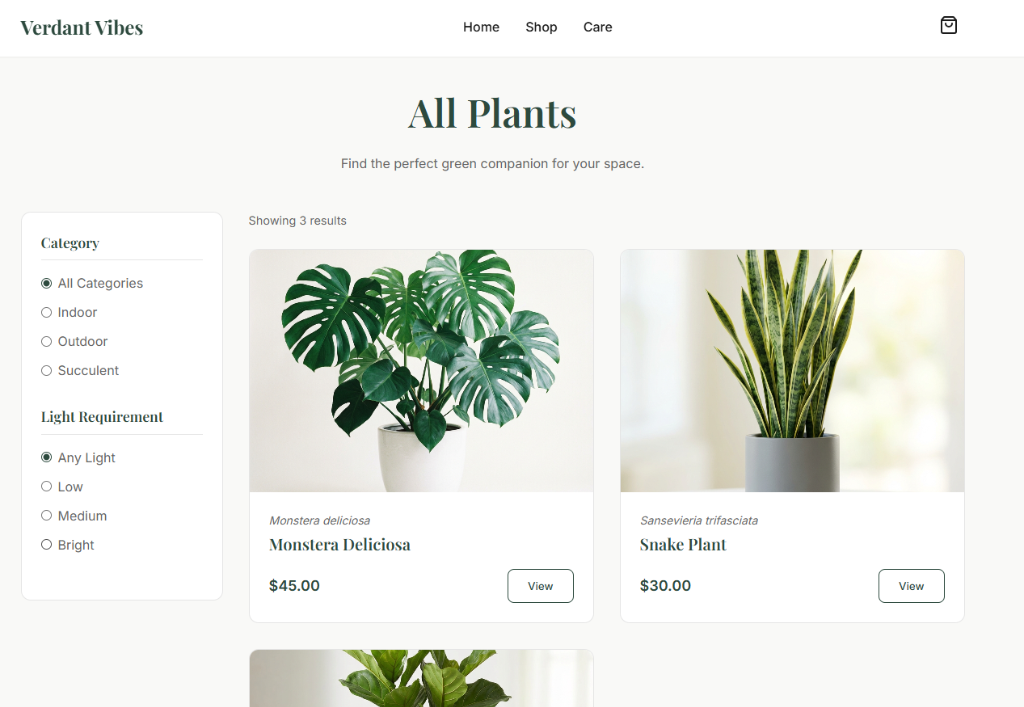
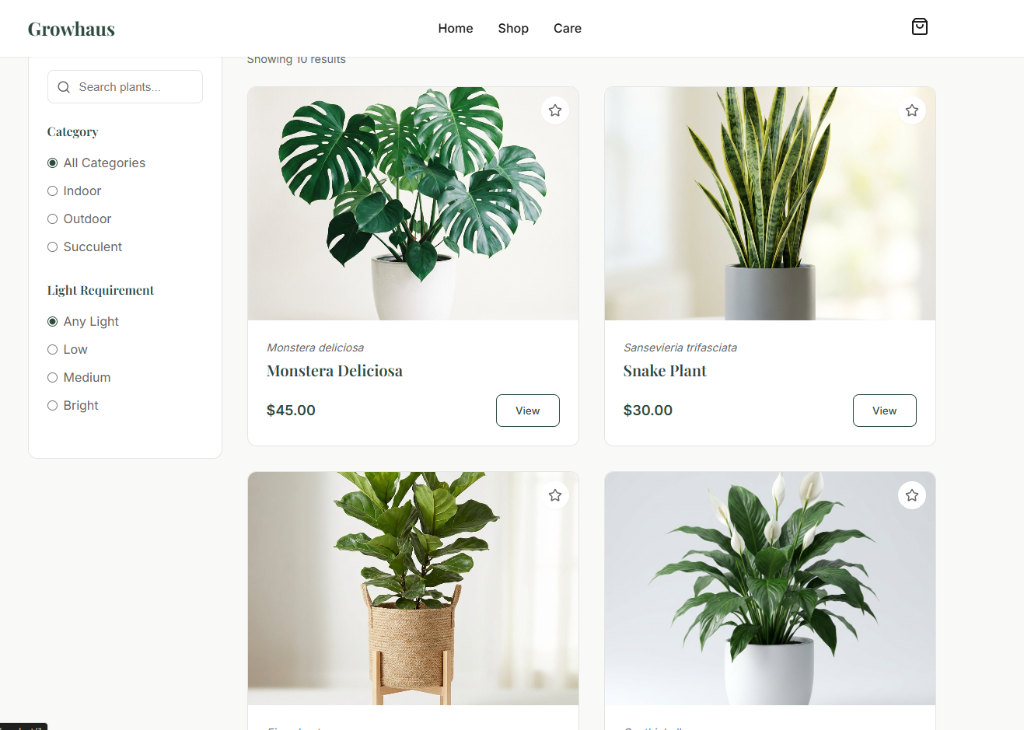
docs: Update README with new brand name and images

diff --git a/README.md b/README.md
@@ -1,12 +1,14 @@
-# 🌿 Verdant Vibes - Premium Plant Shop
+# 🌿 Growhaus - Premium Plant Shop
 
 A beautiful, modern e-commerce website for plant enthusiasts, built with React, TypeScript, and a focus on premium design and user experience.
 
-![Verdant Vibes Home Page](screenshots/home-page.png)
+![Growhaus Home Page](screenshots/home-hero.png)
 
 ## 📖 About
 
-**Verdant Vibes** is a premium plant shop website that brings nature into your home. The site features a curated collection of indoor and outdoor plants, complete with detailed care guides and a seamless shopping experience. With its modern organic design aesthetic, the website combines deep forest greens, warm cream backgrounds, and elegant serif typography to create an immersive botanical experience.
+**Growhaus** is your premier destination for bringing life into your living spaces. We believe that every home deserves a touch of nature, and our curated collection reflects that philosophy. From air-purifying indoor plants to resilient succulents and statement outdoor pieces, Growhaus offers a seamless shopping experience for plant lovers of all levels.
+
+Our design philosophy centers on "Modern Organic" aesthetics—blending the raw beauty of nature with clean, contemporary web design. With a soothing palette of deep forest greens and warm creams, combined with elegant typography, we invite you to explore a digital sanctuary that feels as refreshing as the plants we sell.
 
 ## ✨ Features
 
@@ -16,7 +18,7 @@ A beautiful, modern e-commerce website for plant enthusiasts, built with React, 
 - **Value Propositions**: Highlighting sustainability, secure shipping, and expert support
 - **Newsletter Signup**: Build your green community
 
-![Features Section](screenshots/features.png)
+![Features Section](screenshots/home-features.png)
 
 ### 🛍 Smart Shop Page
 - **Product Catalog**: Clean grid layout with all available plants
@@ -31,6 +33,8 @@ A beautiful, modern e-commerce website for plant enthusiasts, built with React, 
 - **Care Guides**: Visual indicators for light, water, and difficulty level
 - **Quantity Selection**: Easy-to-use quantity controls
 - **Add to Cart**: Seamless shopping experience
+
+![Product Details](screenshots/product-details.png)
 
 ### 🛒 Shopping Cart
 - **Slide-out Drawer**: Smooth cart animation
@@ -110,13 +114,13 @@ verdant-vibes-plant-shop/
 │   ├── pages/          # Page components
 │   │   ├── Home.tsx
 │   │   ├── Shop.tsx
-│   │   └── ProductDetails.tsx
+│   │   ├── ProductDetails.tsx
 │   ├── context/        # React Context providers
-│   │   └── CartContext.tsx
+│   │   ├── CartContext.tsx
 │   ├── data/           # Mock data
-│   │   └── products.ts
+│   │   ├── products.ts
 │   ├── types/          # TypeScript type definitions
-│   │   └── index.ts
+│   │   ├── index.ts
 │   ├── App.tsx         # Main app component
 │   ├── main.tsx        # Entry point
 │   └── index.css       # Global styles
